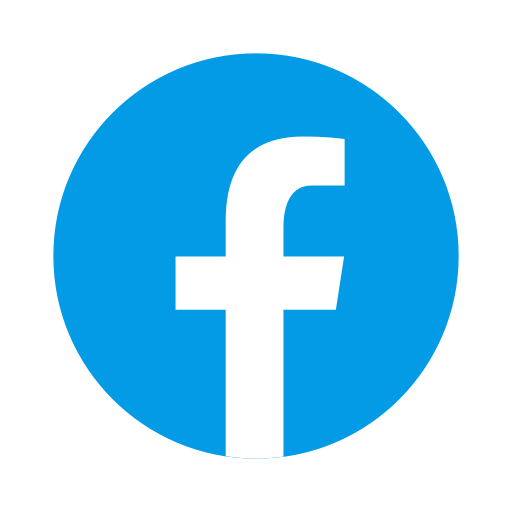
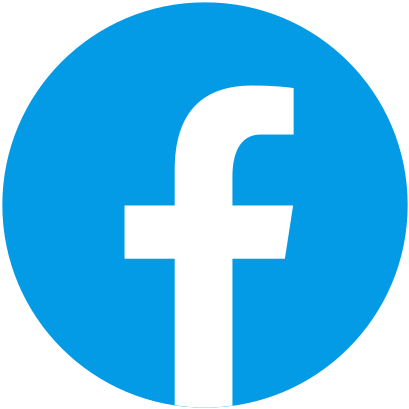
Update

diff --git a/Kingsley/Home/index.html b/Kingsley/Home/index.html
@@ -13,17 +13,17 @@
         <nav class="navbar">
             <!-- Logo on the left -->
             <div class="logo">
-                <a href="C:\Users\testi\Desktop\Python\FurtherStudiesHCHS\Home\index.html"><img src="C:\Users\testi\Desktop\Python\FurtherStudiesHCHS\img\navlogo.png" alt="Han Chiang High School"></a>
+                <a href="C:\Users\testi\Desktop\HTML\furtherStudiesWebsite\Kingsley\home\index.html"><img src="C:\Users\testi\Desktop\HTML\furtherStudiesWebsite\Kingsley\img\navlogo.png" alt="Han Chiang High School"></a>
             </div>
 
             <!-- Navigation links on the right -->
             <ul class="nav-links">
-                <li><a href="C:\Users\testi\Desktop\Python\FurtherStudiesHCHS\Home\index.html" class="active">首页 | Home</a></li>
-                <li><a href="C:\Users\testi\Desktop\Python\FurtherStudiesHCHS\about\index.html">部门介绍 | About Our Department</a></li>
-                <li><a href="C:\Users\testi\Desktop\Python\FurtherStudiesHCHS\news\index.html">资讯中心 | News and Updates</a></li>
-                <li><a href="C:\Users\testi\Desktop\Python\FurtherStudiesHCHS\scholarship\index.html">奖学金 | Scholarship</a></li>
-                <li><a href="C:\Users\testi\Desktop\Python\FurtherStudiesHCHS\events\index.html">活动 | Event</a></li>
-                <li><a href="C:\Users\testi\Desktop\Python\FurtherStudiesHCHS\application\index.html">申请指南 | Application Guide</a></li>
+                <li><a href="C:\Users\testi\Desktop\HTML\furtherStudiesWebsite\Kingsley\home\index.html" class="active">首页 | Home</a></li>
+                <li><a href="C:\Users\testi\Desktop\HTML\furtherStudiesWebsite\Kingsley\about\index.html">部门介绍 | About Our Department</a></li>
+                <li><a href="C:\Users\testi\Desktop\HTML\furtherStudiesWebsite\Kingsley\news\index.html">资讯中心 | News and Updates</a></li>
+                <li><a href="C:\Users\testi\Desktop\HTML\furtherStudiesWebsite\Kingsley\scholarship\index.html">奖学金 | Scholarship</a></li>
+                <li><a href="C:\Users\testi\Desktop\HTML\furtherStudiesWebsite\Kingsley\events\index.html">活动 | Event</a></li>
+                <li><a href="C:\Users\testi\Desktop\HTML\furtherStudiesWebsite\Kingsley\application\index.html">申请指南 | Application Guide</a></li>
             </ul>
 
             <!-- Search bar on the right -->
@@ -38,6 +38,7 @@
 
     </main>
     <footer>
+        <p>GET SOCIAL WITH US!</p>
         <div class="footer-content">
             <div class="social-media">
                 <a href="https://www.hchs.edu.my" target="_blank" aria-label="Visit HCHS">
@@ -47,10 +48,10 @@
                     <img src="C:\Users\testi\Desktop\HTML\furtherStudiesWebsite\Kingsley\img\facebook-icon.png" alt="Facebook Icon">
                 </a>
                 <a href="https://www.instagram.com/hanchianghighschool/" target="_blank" aria-label="Visit our Instagram">
-                    <img src="img/instagram-icon.png" alt="Instagram Icon">
+                    <img src="C:\Users\testi\Desktop\HTML\furtherStudiesWebsite\Kingsley\img\social-instagram-new-circle-512.webp" alt="Instagram Icon">
                 </a>
                 <a href="" aria-label="Send us an email">
-                    <img src="icons/email-icon.png" alt="Email Icon">
+                    <img src="C:\Users\testi\Desktop\HTML\furtherStudiesWebsite\Kingsley\img\gmail-icon-free-png.webp" alt="Email Icon">
                 </a>
             </div>
             <div id="copyright">

diff --git a/Kingsley/Home/style.css b/Kingsley/Home/style.css
@@ -70,6 +70,10 @@ footer {
     text-align: center;
 }
 
+footer p {
+    font-size: 15px;
+}
+
 #copyright {
     color: #353535;;
 }
@@ -88,8 +92,9 @@ footer {
 }
 
 .social-media img {
-    width: 50px; /* Adjust icon size as needed */
-    height: 50px;
+    width: 40px; /* Adjust icon size as needed */
+    height: 40px;
+    margin: 5px;
     /*filter: brightness(0) invert(1); /* Make icons white */
 }
 
